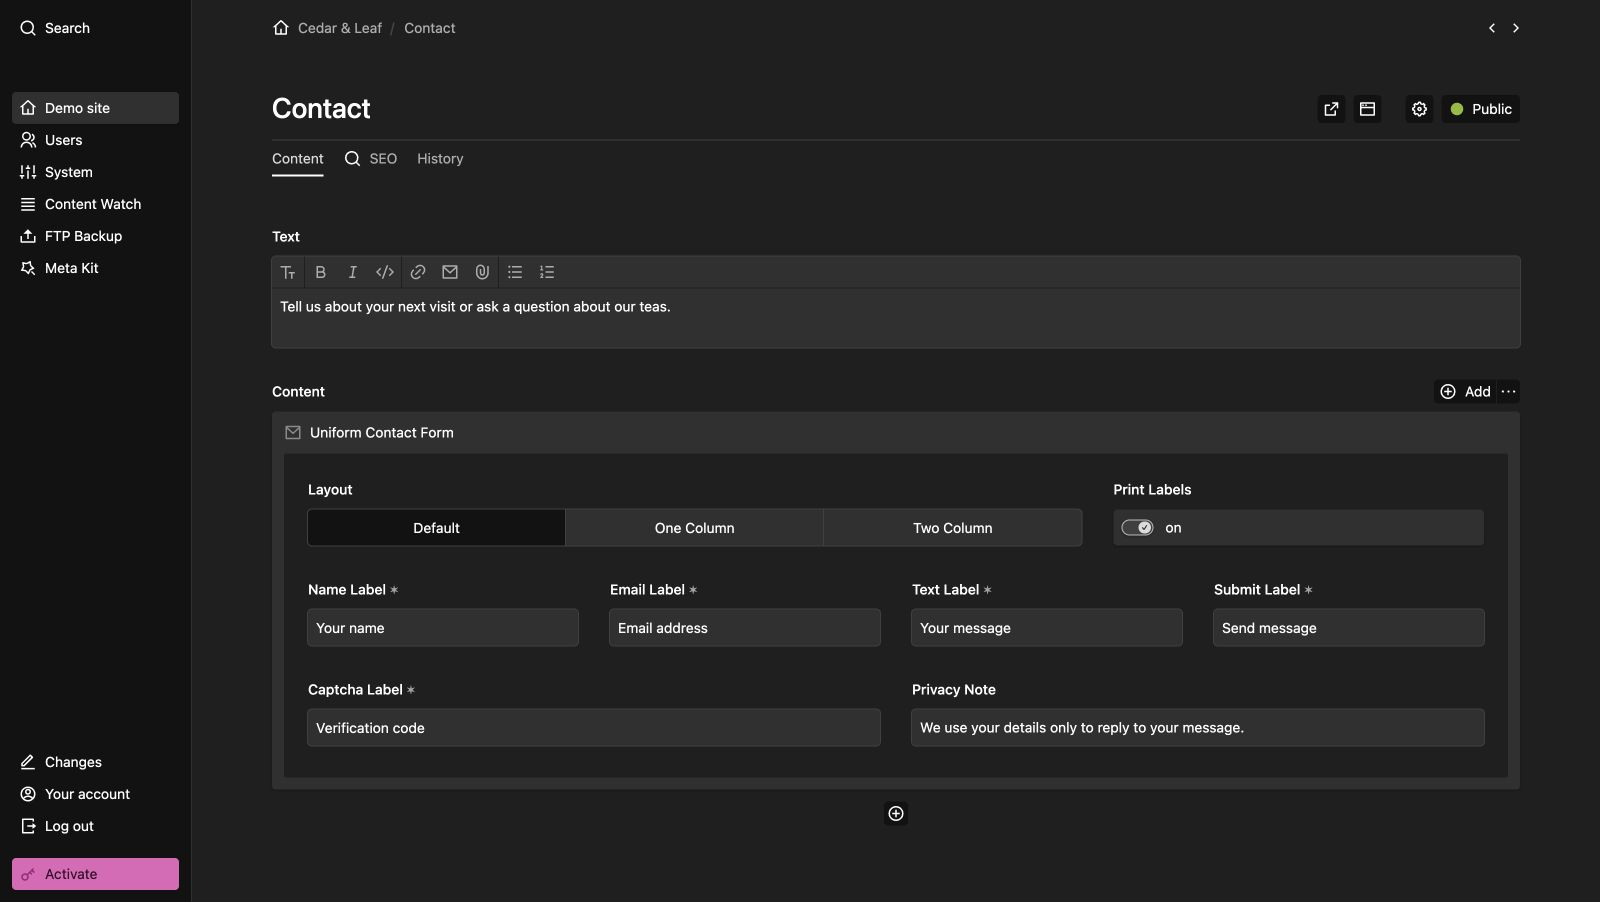
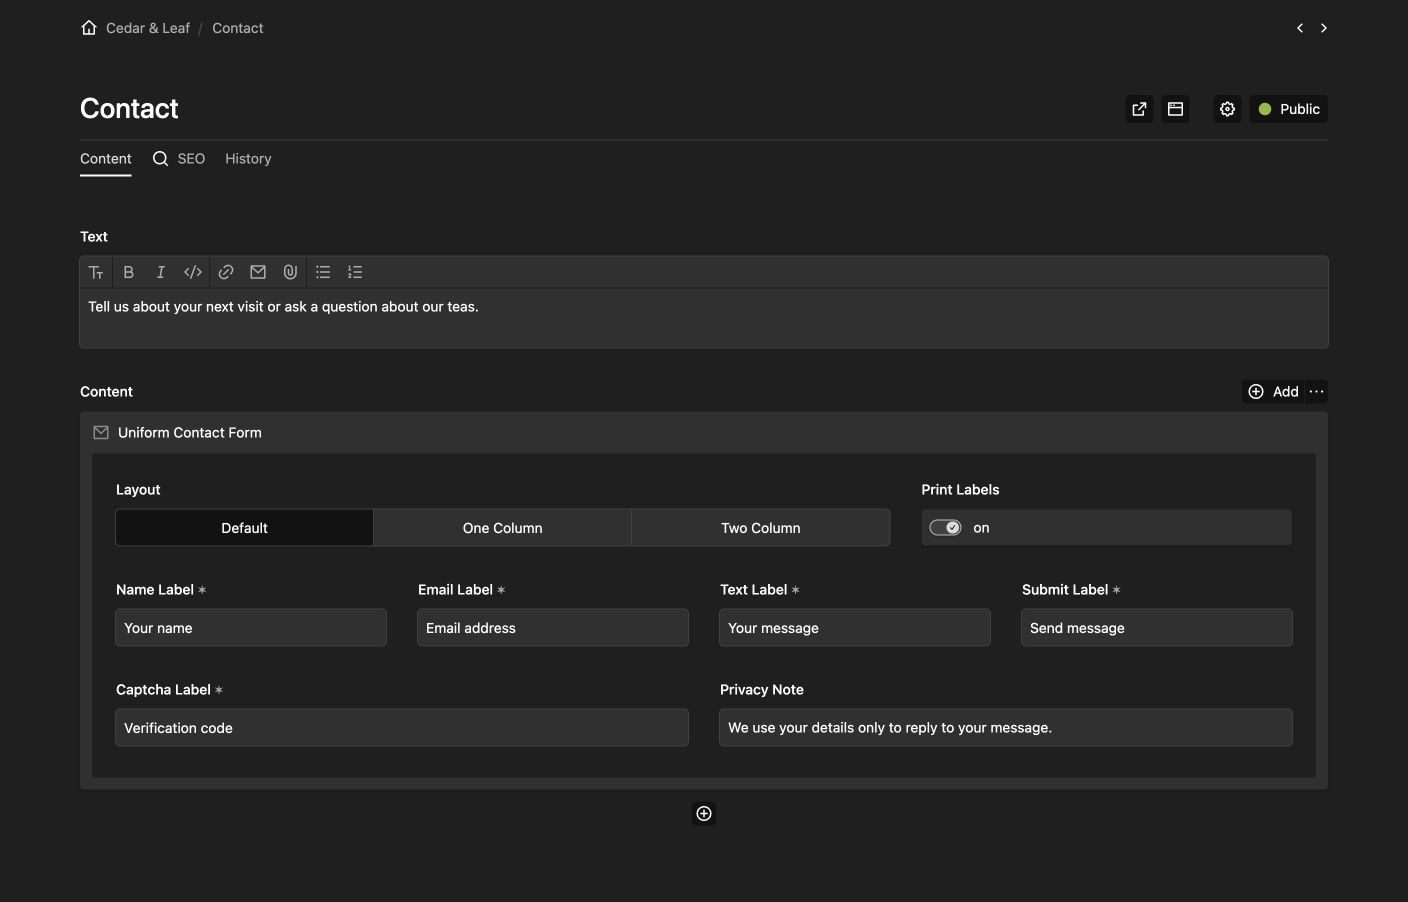
docs: refine screenshots and remove Panel sidebar

diff --git a/README.md b/README.md
@@ -209,9 +209,11 @@ This plugin is licensed under the [MIT License](LICENSE)
 
 ## Screenshots
 
-Screenshots use fictional Cedar & Leaf sample content at 1600 × 902 pixels. The main image uses the light theme.
+Screenshots use sample content at 1408 × 902 pixels. Panel views are cropped to the content area. The main image uses the light theme.
 
 | View | Light | Dark |
 | --- | --- | --- |
 | Overview | [Light](screenshot.jpg) | [Dark](screenshot-dark.jpg) |
 | Panel block settings | [Light](docs/screenshots/panel-block.jpg) | [Dark](docs/screenshots/panel-block-dark.jpg) |
+
+The contact form previews use the neutral T-Room styling.
